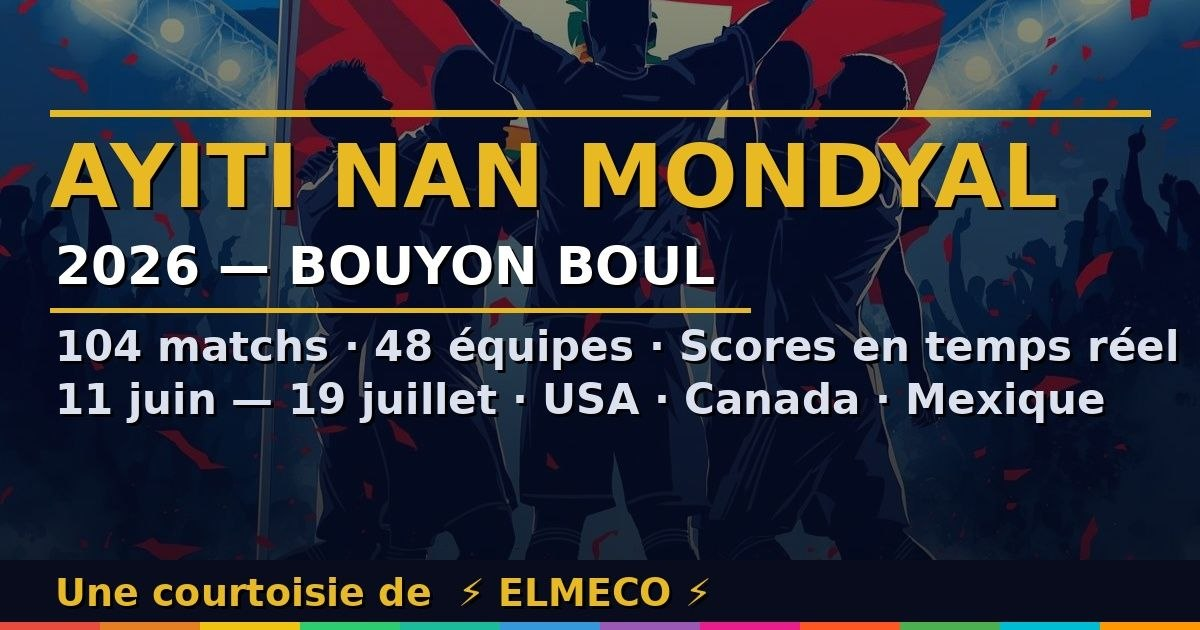
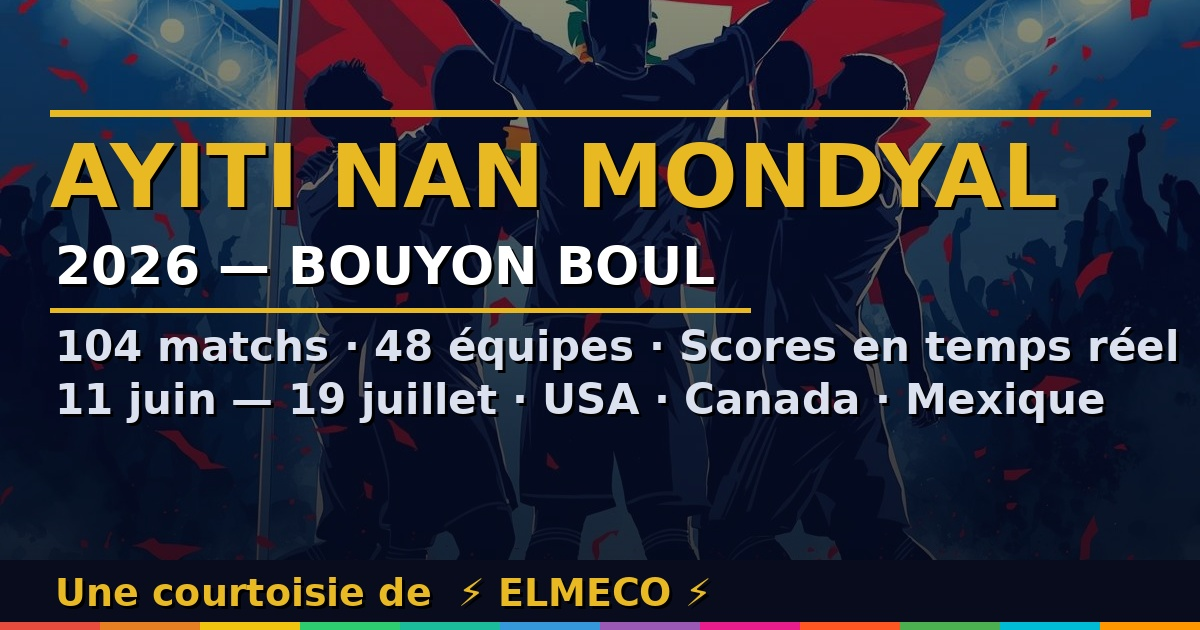
Equipe supportée + splash personnalisé + heures Haiti sidebar

diff --git a/app.js b/app.js
@@ -1350,13 +1350,15 @@ function renderHaitiMatches() {
   if (!el) return;
   el.innerHTML = haitiMatches.map(m => {
     const score = SCORES[m.id];
-    const scoreStr = score && score.home !== undefined ? `<strong style="color:var(--accent)">${score.home}–${score.away}</strong>` : '<span style="color:var(--text2)">—</span>';
+    const scoreStr = score && score.home !== undefined
+      ? `<strong style="color:var(--accent);font-size:16px">${score.home}–${score.away}</strong>`
+      : '<span style="color:var(--text2)">—</span>';
     const opponent = m.home === 'Haïti' ? m.away : m.home;
     return `
       <div class="haiti-match-row">
         <div>
-          <div class="haiti-match-team">${getFlag('Haïti')} Haïti vs ${getFlag(opponent)} ${opponent}</div>
-          <div class="haiti-match-date">${m.date} · ${m.city}</div>
+          <div class="haiti-match-team" style="font-size:15px;font-weight:700;">${getFlag('Haïti')} Haïti vs ${getFlag(opponent)} ${opponent}</div>
+          <div class="haiti-match-date" style="font-size:13px;margin-top:3px;">${m.date} · 🕐 ${m.time} · ${m.city}</div>
         </div>
         <div>${scoreStr}</div>
       </div>`;
@@ -1566,7 +1568,42 @@ function hideSplash() {
     document.body.style.overflow = '';
   }, 600);
 }
-document.addEventListener('DOMContentLoaded', () => setTimeout(hideSplash, 5000));
+
+// Personnaliser le splash selon le profil (à partir de la 2e visite)
+function personalizeSplash() {
+  const visitCount = parseInt(localStorage.getItem('_visitCount') || '1');
+  if (visitCount < 2) {
+    // 1ère visite : incrémenter pour la prochaine
+    localStorage.setItem('_visitCount', '2');
+    return; // splash normal Haïti
+  }
+  // 2e visite et plus : personnaliser si profil existant
+  const raw = localStorage.getItem('_userProfile');
+  if (!raw) return;
+  try {
+    const user = JSON.parse(raw);
+    const team = user.team || '';
+    const name = user.name || '';
+    const flagEl = document.getElementById('splashFlag');
+    const titleEl = document.getElementById('splashTitle');
+    if (!flagEl) return;
+    if (team) {
+      // Extraire le drapeau (1er caractère emoji de l'équipe)
+      const parts = team.split(' ');
+      const flag = parts[0] || '🇭🇹';
+      flagEl.textContent = flag;
+      // Message de bienvenue personnalisé
+      if (titleEl && name && name !== 'Visiteur' && name !== 'Anonyme') {
+        titleEl.innerHTML = 'Bienvenue, <span style="color:var(--accent)">' + name + '</span> !';
+      }
+    }
+  } catch(e) {}
+}
+
+document.addEventListener('DOMContentLoaded', () => {
+  personalizeSplash();
+  setTimeout(hideSplash, 5000);
+});
 window.addEventListener('load', () => setTimeout(hideSplash, 5000));
 setTimeout(hideSplash, 6000); // fallback absolu
 
@@ -1922,23 +1959,28 @@ function selectAvatar(btn) {
 function joinCommunity() {
   const n = document.getElementById('identityName');
   const a = document.querySelector('.avatar-btn.selected');
+  const t = document.getElementById('identityTeam');
   const existingPoints = _user ? (_user.points || 0) : 0;
   const existingJoined = _user ? _user.joined : Date.now();
   _user = {
     name: (n && n.value.trim()) || 'Anonyme',
     avatar: a ? a.textContent : '⚽',
+    team: (t && t.value) || '',
     points: existingPoints,
     joined: existingJoined
   };
   saveUser();
+  // Marquer que c'est la 2e visite ou plus
+  localStorage.setItem('_visitCount', '2');
   document.getElementById('identityOverlay').style.display = 'none';
   updateUserBadge();
   addPoints(5, 'Bienvenue !');
 }
 
 function skipIdentity() {
-  _user = { name: 'Visiteur', avatar: '⚽', points: 0, joined: Date.now() };
+  _user = { name: 'Visiteur', avatar: '⚽', team: '', points: 0, joined: Date.now() };
   saveUser();
+  localStorage.setItem('_visitCount', '2');
   document.getElementById('identityOverlay').style.display = 'none';
   updateUserBadge();
 }

diff --git a/index.html b/index.html
@@ -298,6 +298,24 @@
     .rank-pos-badge { width: 22px; height: 22px; font-size: 11px; }
   }
 
+  /* === Sélecteur équipe dans le formulaire d'inscription === */
+  .identity-team-select {
+    width: 100%;
+    padding: 10px 14px;
+    border-radius: 10px;
+    border: 1px solid var(--border);
+    background: var(--card-bg, #131a2e);
+    color: var(--text);
+    font-family: var(--font-ui);
+    font-size: 15px;
+    margin-bottom: 8px;
+    cursor: pointer;
+  }
+  body.theme-light .identity-team-select {
+    background: #f0f4ff;
+    color: #1a1a2e;
+  }
+
   /* === Couleurs du classement selon la position === */
   .standings-rank.pos-qualif {
     background: #1db954 !important;
@@ -385,6 +403,30 @@
     <input class="identity-name-input" id="identityName" type="text" placeholder="Ton prénom ou pseudo..." maxlength="20">
     <div class="identity-avatar-label">Choisis ton avatar</div>
     <div class="avatar-grid" id="avatarGrid"><button class="avatar-btn" onclick="selectAvatar(this)">⚽</button><button class="avatar-btn" onclick="selectAvatar(this)">🦁</button><button class="avatar-btn" onclick="selectAvatar(this)">🐯</button><button class="avatar-btn" onclick="selectAvatar(this)">🦅</button><button class="avatar-btn" onclick="selectAvatar(this)">🏆</button><button class="avatar-btn" onclick="selectAvatar(this)">🔥</button><button class="avatar-btn" onclick="selectAvatar(this)">💪</button><button class="avatar-btn" onclick="selectAvatar(this)">🌟</button><button class="avatar-btn" onclick="selectAvatar(this)">👑</button><button class="avatar-btn" onclick="selectAvatar(this)">🎯</button><button class="avatar-btn" onclick="selectAvatar(this)">🇭</button><button class="avatar-btn" onclick="selectAvatar(this)">🇹</button><button class="avatar-btn" onclick="selectAvatar(this)">⚡</button></div>
+    <div class="identity-avatar-label" style="margin-top:14px;">⚽ Quelle équipe tu supportes ?</div>
+    <select class="identity-team-select" id="identityTeam">
+      <option value="">-- Choisis ton équipe --</option>
+      <option value="🇭🇹 Haïti">🇭🇹 Haïti</option>
+      <option value="🇧🇷 Brésil">🇧🇷 Brésil</option>
+      <option value="🇫🇷 France">🇫🇷 France</option>
+      <option value="🇦🇷 Argentine">🇦🇷 Argentine</option>
+      <option value="🇵🇹 Portugal">🇵🇹 Portugal</option>
+      <option value="🏴 Angleterre">🏴 Angleterre</option>
+      <option value="🇪🇸 Espagne">🇪🇸 Espagne</option>
+      <option value="🇩🇪 Allemagne">🇩🇪 Allemagne</option>
+      <option value="🇲🇦 Maroc">🇲🇦 Maroc</option>
+      <option value="🇺🇸 États-Unis">🇺🇸 États-Unis</option>
+      <option value="🇲🇽 Mexique">🇲🇽 Mexique</option>
+      <option value="🇨🇦 Canada">🇨🇦 Canada</option>
+      <option value="🇸🇳 Sénégal">🇸🇳 Sénégal</option>
+      <option value="🇨🇴 Colombie">🇨🇴 Colombie</option>
+      <option value="🇯🇵 Japon">🇯🇵 Japon</option>
+      <option value="🇳🇱 Pays-Bas">🇳🇱 Pays-Bas</option>
+      <option value="🇺🇾 Uruguay">🇺🇾 Uruguay</option>
+      <option value="🇨🇮 Côte d'Ivoire">🇨🇮 Côte d'Ivoire</option>
+      <option value="🇩🇿 Algérie">🇩🇿 Algérie</option>
+      <option value="🇳🇬 Nigeria">🇳🇬 Nigeria</option>
+    </select>
     <button class="identity-join-btn" onclick="joinCommunity()">⚡ Rejoindre !</button>
     <span class="identity-skip" onclick="skipIdentity()">Continuer sans profil</span>
   </div>
@@ -394,8 +436,8 @@
 <div id="splashScreen">
   <div class="splash-year">2026</div>
   <img class="splash-logo" src="img_extracted_00.jpg" alt="ELMECO">
-  <div class="splash-flag">🇭🇹</div>
-  <div class="splash-title">AYITI <span>nan</span> Mondyal</div>
+  <div class="splash-flag" id="splashFlag">🇭🇹</div>
+  <div class="splash-title" id="splashTitle">AYITI <span>nan</span> Mondyal</div>
   <div class="splash-subtitle">Bouyon Boul 2026</div>
   <div class="splash-bar-wrap"><div class="splash-bar"></div></div>
   <div class="splash-loading">Chargement…</div>

diff --git a/sw.js b/sw.js
@@ -1,6 +1,6 @@
 // ── Service Worker AYITI nan Mondyal 2026 ──
 // Incrémente CACHE_VERSION à chaque déploiement pour invalider le cache
-const CACHE_VERSION = 'v20260526-007';
+const CACHE_VERSION = 'v20260526-010';
 const CACHE_NAME = `ayiti-mondyal-${CACHE_VERSION}`;
 
 const ASSETS = [